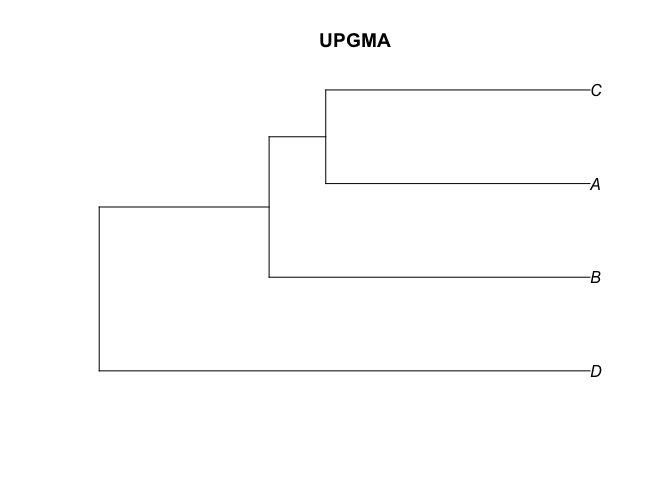
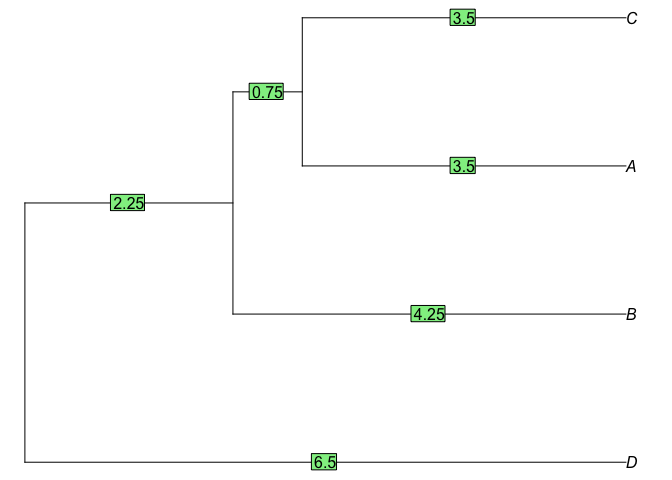
add branch lengths

diff --git a/Lab1.md b/Lab1.md
@@ -7,8 +7,8 @@ Please download the nucleotide [alignment](ABCD.fasta), and save it into
 your working directory. You can preview the alignment by using any text
 editor to open the file.
 
-We also need two R libraries: “ape” and “phangorn”. If your R has not
-got them, please use `install.packages` to install them.
+We also need three R libraries: “ape”, “phangorn”, and “phytools”. If
+your R has not got them, please use `install.packages` to install them.
 
 ## 1. Pairwise distances
 
@@ -43,17 +43,23 @@ the matrix of pairwise distances.
 
 ## 2. Algorithms
 
-Secondly, we will use the library “phangorn” to create trees.
+Secondly, we will use the library “phangorn” to create trees, and use
+“phytools”.
 
     library(phangorn)
+    library(phytools)
+
+    ## Loading required package: maps
 
 ### 2.1 UPGMA
 
 Now, please reuse the distance matrix `d` and compute the UPGMA tree.
-Use `plot` function to draw the tree.
+Use `plot` function to draw the tree, and use `edgelabels` to show
+branch lengths.
 
     treeUPGMA <- upgma(d)
-    plot(treeUPGMA, main="UPGMA")
+    plot(treeUPGMA, use.edge.length=T, no.margin=TRUE)
+    edgelabels(treeUPGMA$edge.length)
 
 ![](Lab1_files/figure-markdown_strict/unnamed-chunk-5-1.png)
 
@@ -63,7 +69,8 @@ Then compute the neighbour-joining tree. As it produces unrooted trees,
 you need to add the “unrooted” argurment to the `plot` function.
 
     treeNJ <- NJ(d)
-    plot(treeNJ, "unrooted", main="NJ")
+    plot(treeNJ, type="unrooted", use.edge.length=T, no.margin=TRUE)
+    edgelabels(treeNJ$edge.length)
 
 ![](Lab1_files/figure-markdown_strict/unnamed-chunk-6-1.png)
 
@@ -73,13 +80,30 @@ algorithm?
 ### 2.3 Parsimony
 
 To understand the parsimony method, we need a more complex example.
-Please follow the “phangorn”
-[tutorial](https://cran.r-project.org/web/packages/phangorn/vignettes/Trees.html)
-to load the alignment “primates”, and respectively create the UPGMA and
-NJ tree.
+Please follow the instructions below, which are modified from the
+“phangorn”
+[tutorial](https://cran.r-project.org/web/packages/phangorn/vignettes/Trees.html).
+
+First load the alignment “primates”, and remove the outgroup sequence
+“Bovine” to make the analysis simple.
 
     fdir <- system.file("extdata/trees", package = "phangorn")
     primates <- read.phyDat(file.path(fdir, "primates.dna"), format = "interleaved")
+    names(primates)
+
+    ##  [1] "Mouse"      "Bovine"     "Lemur"      "Tarsier"    "Squir Monk"
+    ##  [6] "Jpn Macaq"  "Rhesus Mac" "Crab-E.Mac" "BarbMacaq"  "Gibbon"    
+    ## [11] "Orang"      "Gorilla"    "Chimp"      "Human"
+
+    # rm "Bovine"
+    primates <- primates[-2]
+    names(primates)
+
+    ##  [1] "Mouse"      "Lemur"      "Tarsier"    "Squir Monk" "Jpn Macaq" 
+    ##  [6] "Rhesus Mac" "Crab-E.Mac" "BarbMacaq"  "Gibbon"     "Orang"     
+    ## [11] "Gorilla"    "Chimp"      "Human"
+
+We can now create the UPGMA and NJ tree respectively.
 
     dm  <- dist.ml(primates)
     treeUPGMA  <- upgma(dm)
@@ -89,46 +113,19 @@ Then compare the parsimony score between two trees.
 
     parsimony(c(treeUPGMA, treeNJ), primates)
 
-    ## [1] 751 746
+    ## [1] 676 676
 
 **Question 3 :** which tree should we choose in term of the score? Why?
 
 We use the UPGMA tree as a start, and perform nearest-neighbor
-interchanges (NNI) to the optimal tree. In addition, we run the
-bootstrap to provide the support values.
+interchanges (NNI) to find the optimal tree.
 
     treePars <- optim.parsimony(treeUPGMA, primates, rearrangements = "NNI")
 
-    fun <- function(x) optim.parsimony(upgma(dist.ml(x)), x)
-    bsNNI <- bootstrap.phyDat(primates, fun)
-
-Use `acctran` to assign branch lengths which are proportional to the
-number of substitutions, according to the document.
-
-    treePars  <- acctran(treePars, primates)
-
-Finally, we can plot the phylogenetic tree with the support values,
-where the vaule will not appear if it is less than 50 as default. Try to
-add `p=1` if you want to see the supports in all internal nodes.
-
-    plotBS(midpoint(treePars), bsNNI, main="Parsimony NNI", type="phylogram")
+    plot(treePars, type="unrooted", use.edge.length=T, no.margin=TRUE)
+    edgelabels(treePars$edge.length, 2)
 
 ![](Lab1_files/figure-markdown_strict/unnamed-chunk-11-1.png)
-
-**Question 4 :** comparing this result with the UPGMA and NJ trees,
-please explain which makes more sense in term of the evolutionary
-biology?
-
-A branch and bound example at 6 taxa.
-
-    subTrees <- bab(subset(primates, 1:6))
-
-    ## [1] "lower bound: 368"
-    ## [1] "upper bound: 432"
-
-    plot(subTrees[[1]])
-
-![](Lab1_files/figure-markdown_strict/unnamed-chunk-12-1.png)
 
 ### 2.4 Maximum likelihood
 
@@ -143,4 +140,4 @@ A branch and bound example at 6 taxa.
 
     plotBS(midpoint(fitHKY$tree), bs, type="phylogram")
 
-![](Lab1_files/figure-markdown_strict/unnamed-chunk-14-1.png)
+![](Lab1_files/figure-markdown_strict/unnamed-chunk-13-1.png)
